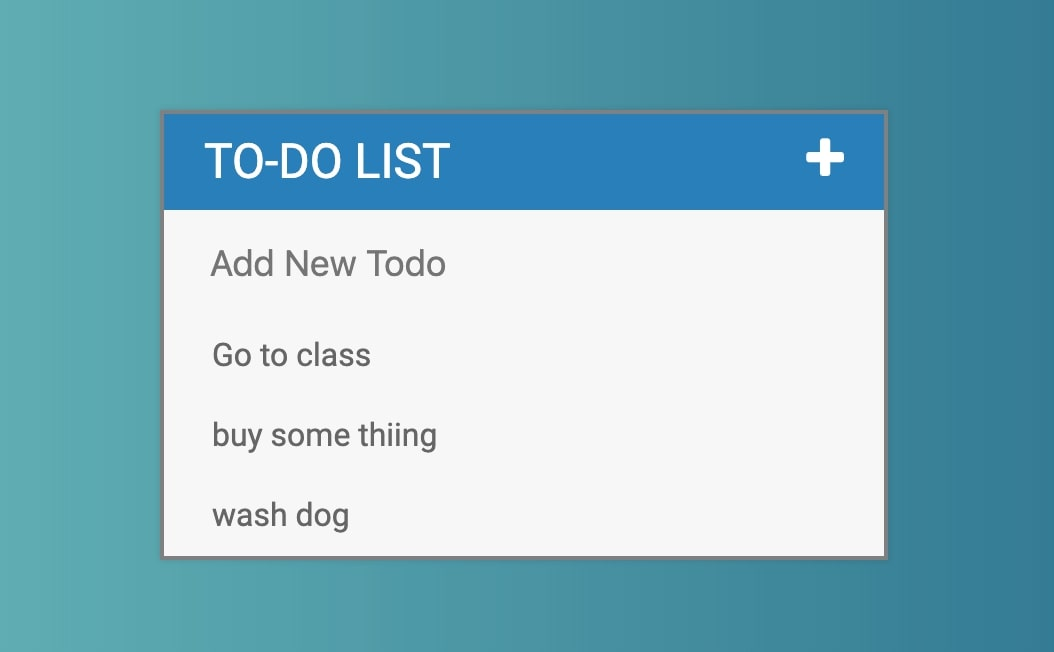
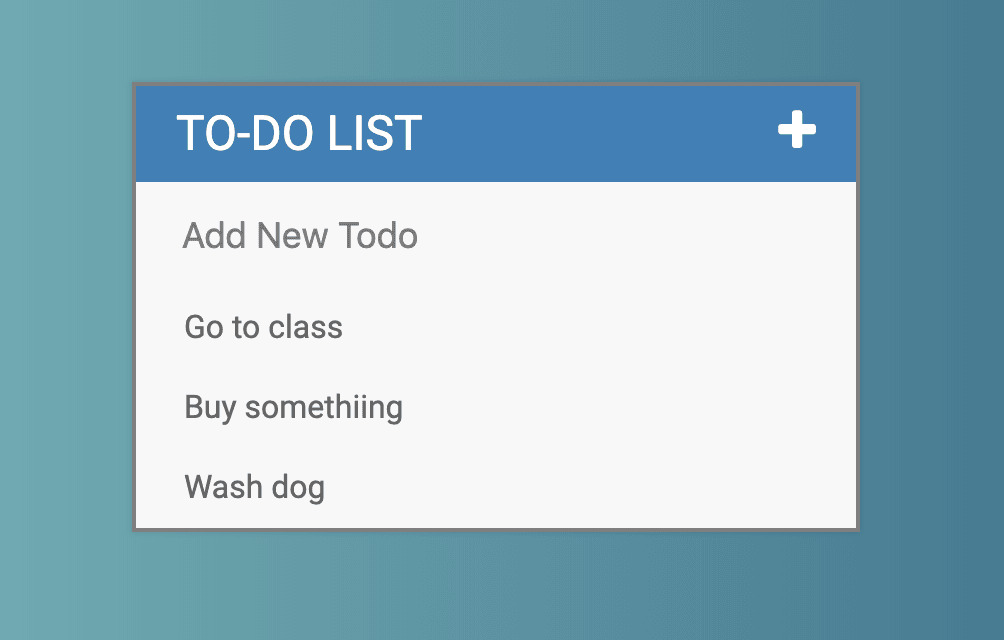
fix image

Changed region(s): [[0.1235, 0.125, 0.8645, 0.875], [0.1853, 0.625, 0.4323, 0.6875], [0.1853, 0.5, 0.3705, 0.5625]]

diff --git a/2019/Project/todo_list/index.html b/2019/Project/todo_list/index.html
@@ -14,8 +14,8 @@
 	<input type="text" placeholder="Add New Todo">
 	<ul>
 		<li><span><i class="fa fa-trash"></i></span> Go to class</li>
-		<li><span><i class="fa fa-trash"></i></span> buy some thiing</li>
-		<li><span><i class="fa fa-trash"></i></span> wash dog</li>
+		<li><span><i class="fa fa-trash"></i></span> Buy somethiing</li>
+		<li><span><i class="fa fa-trash"></i></span> Wash dog</li>
 	</ul>
 </div>
 
